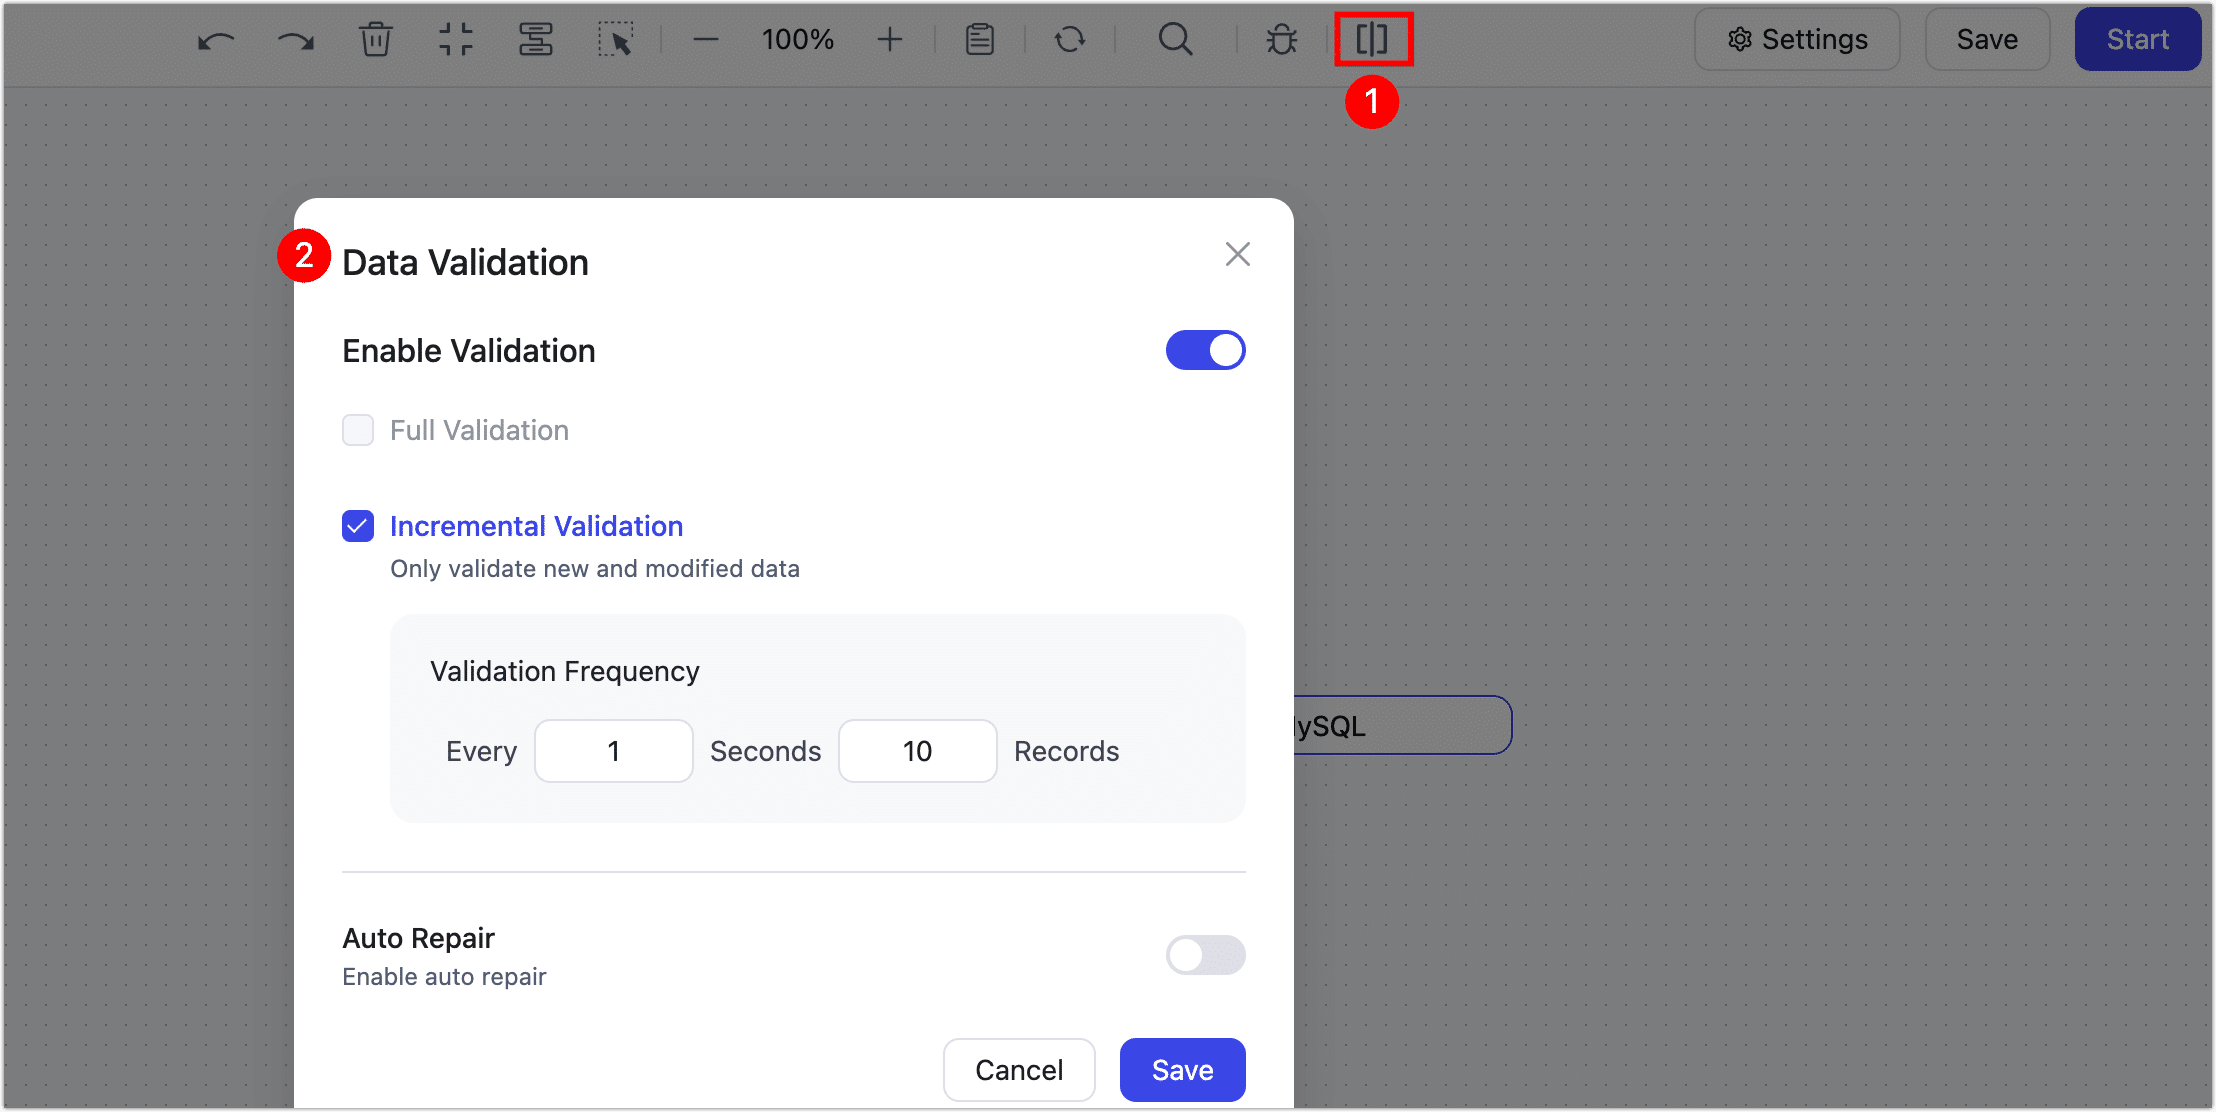
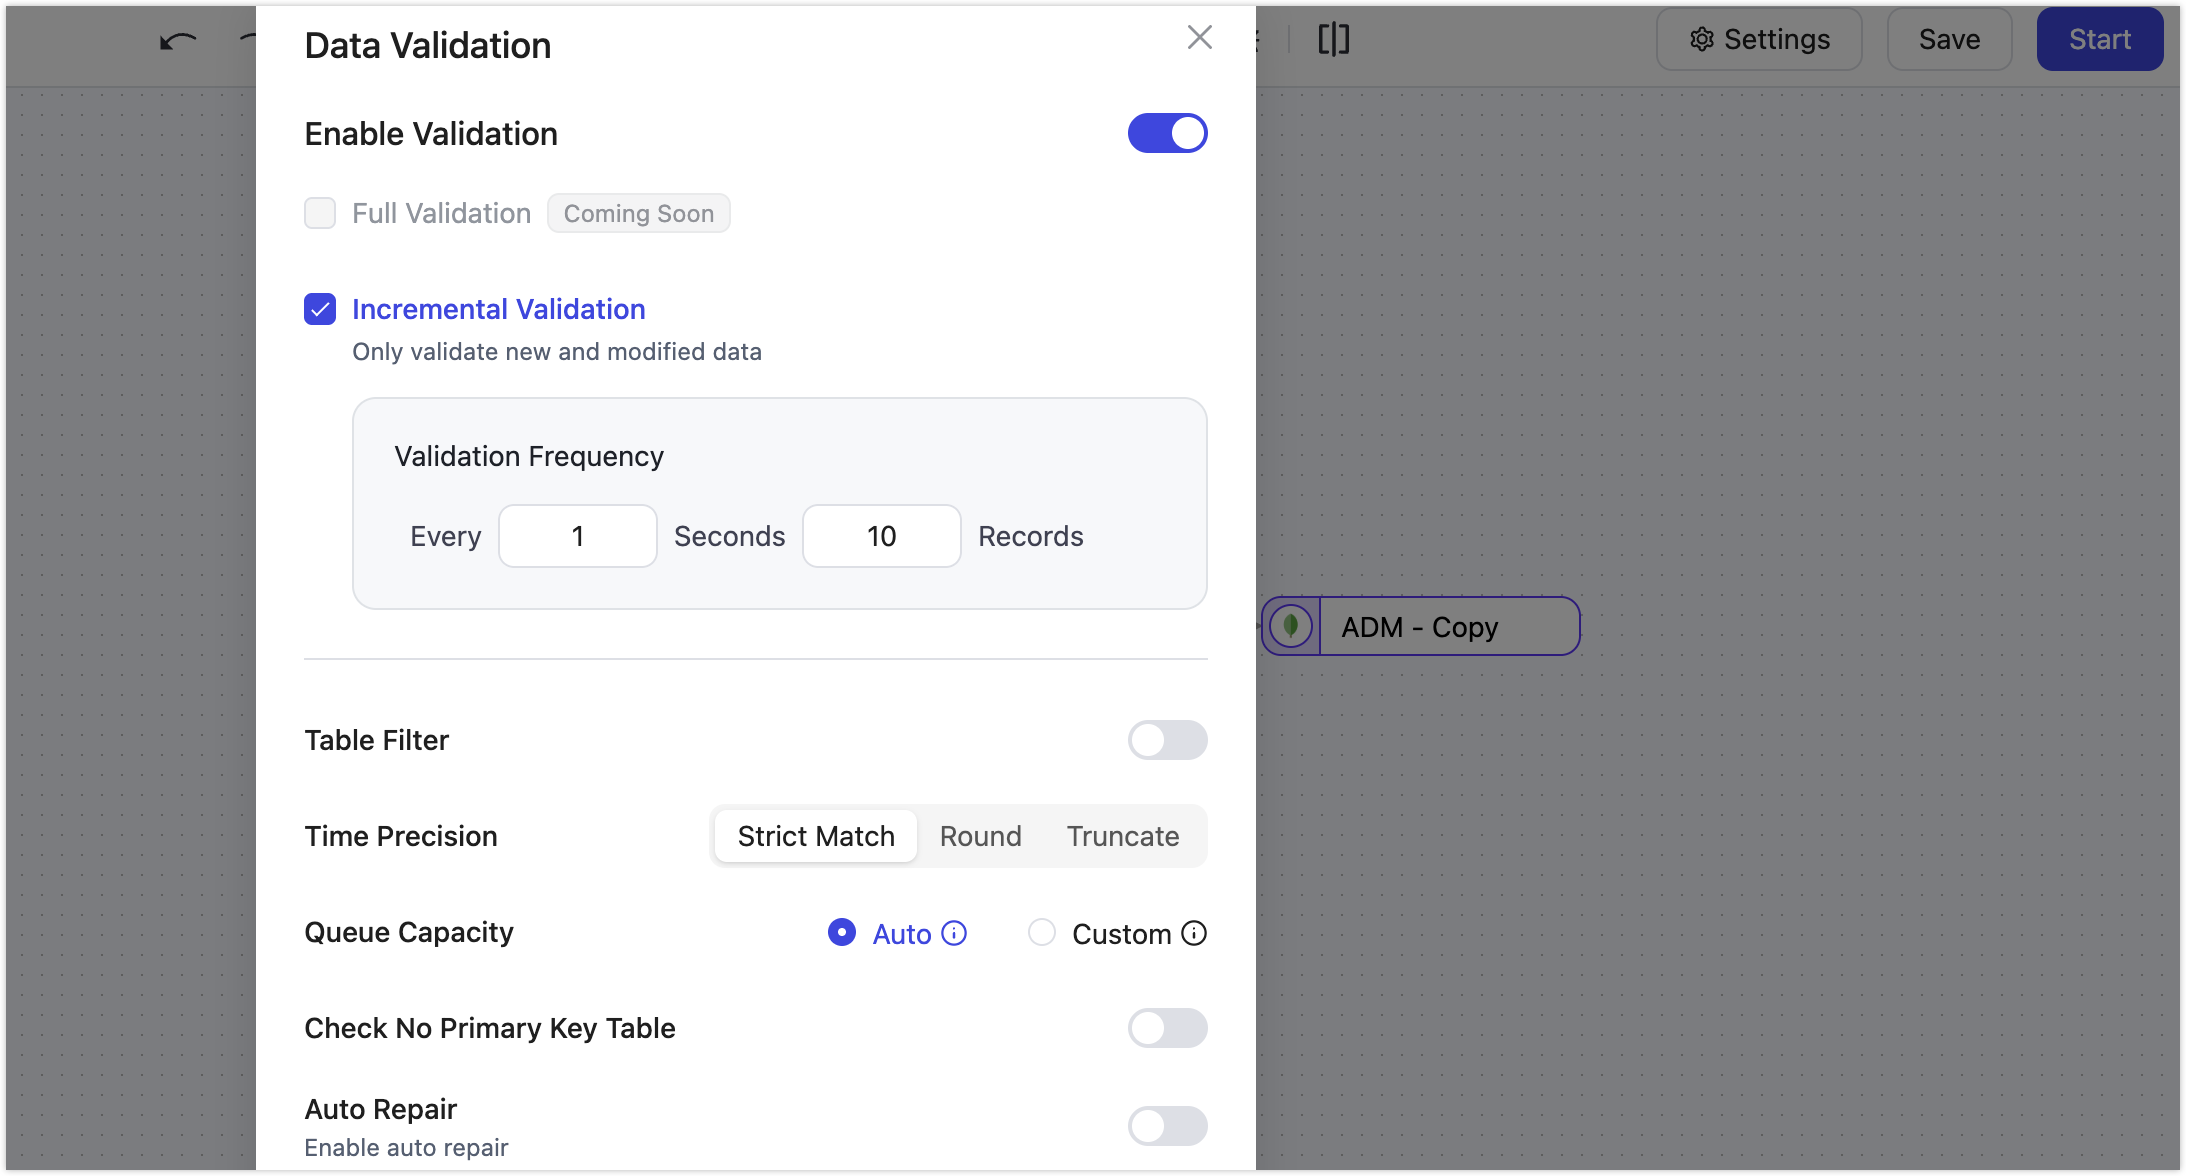
Release Add release notes for v4.11.0

diff --git a/docs/data-replication/incremental-check.md b/docs/data-replication/incremental-check.md
@@ -38,6 +38,10 @@ To address these challenges, TapData introduces **Incremental Data Validation**,
 
    - **Incremental Validation**: When enabled, TapData will sample and validate newly inserted or updated records to identify data inconsistencies during sync.
    - **Validation Frequency**: Controls how many records are validated per second. TapData will compare records by primary key to check for differences between source and target. Default is 10 records/sec. Adjust based on workload.
+   - **Table Filter**: Configure which tables to validate. Defaults to all tables. You can include or exclude specific tables, or use regular expressions to select tables for customized needs.
+   - **Time Precision**: Supports strict match, rounding, and truncation. Default is strict match, requiring time-field values to be identical between source and target. Rounding or truncation allows small tolerances where exact precision is not required.
+   - **Queue Capacity**: Default is Auto. The system dynamically adjusts buffer size based on task concurrency and validation rate. Increasing it manually may raise resource consumption.
+   - **Check No Primary Key Tables**: Disabled by default—only tables with a primary key are validated. If the source or target has tables without a primary key, define a key first or enable this option to include them.
    - **Auto Repair**: When enabled, TapData will re-fetch and re-sync inconsistent records from the source, ensuring consistency without manual fixes.
 
 5. Before starting the task, it is recommended to go to **Settings** in the top-right corner of the page, open the **Alert Settings** tab, enable **Email Alerts** related to task validation, and **select recipients**. This ensures timely notifications when data inconsistencies are detected.

diff --git a/docs/data-transformation/process-node.md b/docs/data-transformation/process-node.md
@@ -91,6 +91,11 @@ In big data processing and analysis, merging and transforming data is a pivotal 
 
    Once the process is completed, you can monitor the task's performance on the current page, such as RPS (Records Per Second), latency, task time statistics, etc.
 
+
+In addition, when you detect data inconsistencies or unexpected results, stop and edit the task. Click the Master Slave Merge node and, under Cache Management, rebuild the child-table cache that needs to be re-synchronized.
+
+![Rebuild Data Cache](../images/rebuild_data_cache.png)
+
 ## <span id="union-node">Union</span>
 
 The **Union** node in TapData merges multiple tables with the same or similar structure into a single table, combining the data based on matching field names. The detail rules are as follows:
@@ -378,4 +383,3 @@ Parameter Description
 
 * [Standard JS](../appendix/standard-js.md): TapData supports processing and operating on data records, providing various functions and operations to manipulate and transform data. For example, you can use JavaScript or Java code to convert date strings to Date types. This allows you to perform date-related operations, comparisons, and formatting on the data records as needed. With this capability, you have flexibility in manipulating and transforming your data to meet your specific requirements.
 * [Enhanced JS (Beta)](../appendix/enhanced-js.md): TapData supports making external calls in JavaScript code using standard built-in functions. This allows you to perform network requests, interact with databases, and perform other operations by utilizing the capabilities of JavaScript and its built-in functions.
-

diff --git a/docs/release-notes-on-prem.md b/docs/release-notes-on-prem.md
@@ -14,6 +14,30 @@ import TabItem from '@theme/TabItem';
 <TabItem value="Version 4.x" default>
 ```
 
+
+## 4.11.0
+
+### New Features
+
+- Released [Db2 for i connector](connectors/on-prem-databases/db2-for-i.md) with real-time sync and write support for enterprise data integration.
+- [Incremental data validation](data-replication/incremental-check.md) now supports bulk manual verification and repair, configurable validation scope, and per-table ignore lists.
+- The [master-child merge node](data-transformation/process-node.md#master-slave-merge) adds child-table cache rebuild to quickly fix cache inconsistencies and protect data quality.
+- [Data replication tasks](data-replication/create-task.md) extend exactly-once writes with MongoDB and Sybase as supported targets, ensuring idempotent and consistent writes.
+- [Task logs](data-replication/monitor-task.md#-task-log-display-area) add DDL output for easier troubleshooting and audit reviews.
+- Incremental reads are now auto-tuned by adjusting batch size to balance throughput and stability.
+
+
+### Enhancements
+
+- [API audit logs](./publish-apis/audit-api.md) now include database response time.
+- Improved API performance for faster overall request handling.
+- Improved API debug page results display for better readability and debugging.
+- Improved the logic for switching master-child merge tasks into incremental mode.
+
+### Bug Fixes
+
+- Fixed a memory leak that could occur in specific scenarios.
+
 ## 4.10.0
 
 ### New Features

diff --git a/docs/data-replication/create-task.md b/docs/data-replication/create-task.md
@@ -99,6 +99,8 @@ As an example of creating a data replication task, the article demonstrates the 
      * **Data Writing Mode**: Select according to business needs.
        * **Process by Event Type**: If you choose this, you also need to select data writing strategies for insert, update, and delete events.
        * **Statistical Append Write**: Only processes insert events, discarding update and delete events.
+    * **Increment Exactly Once Write**: Creates a cache table on the target to mark and check events, ensuring each change is written exactly once. Recommended when association fields (join keys) may change; enabling can impact sync performance. The target database must permit table creation and data writes.
+    * **Time Window**: Sets the retention period for the cache used by exactly-once dedup checks (the validity window). Expired cache entries are cleaned up daily. Longer windows consume more storage on the target database.
      * **Data Source Exclusive Configuration**: Choose whether to save deleted data.
      * **Synchronize Partition Properties**: When this feature is enabled, TapData will automatically create a sharded collection in the target database. This function is only effective when both the source and target databases are MongoDB clusters.
    * **Data Model**
@@ -123,4 +125,3 @@ As an example of creating a data replication task, the article demonstrates the 
 ## See also
 
 [Monitor or Manage Tasks](../data-transformation/manage-task.md)
-

diff --git a/docs/publish-apis/audit-api.md b/docs/publish-apis/audit-api.md
@@ -11,8 +11,9 @@ Click **Details** to view detailed information about the corresponding request, 
 
 ![](../images/audit_api_2.png)
 
-- **Log Details**: Includes basic information and various metrics of the access, such as API ID, name, IP address of the visitor, etc.
-- **Number of Access Records**: The total number of records for this access (entries).
-- **API Average Access Rate**: The average data transmission speed for a single access to the API.
-- **Access Time**: Statistical computation of the time consumed for a single access to the API.
-- **Average Response Time**: The average response time per record for a single access to the API.
+- **Log details**: Includes basic request info and metrics, such as API ID, name, HTTP method and path, requester IP address, status code, timestamp, etc.
+- **Rows returned**: Total number of records returned in this request (independent of pagination or streaming).
+- **Matching rows**: Number of records that matched the query/filter conditions (typically ≤ rows returned).
+- **API access rate**: Average data transfer rate for a single request, used to evaluate throughput.
+- **Request duration**: End-to-end time from receiving the request to completing the response.
+- **Database response time**: Time the database took to respond during the request.
